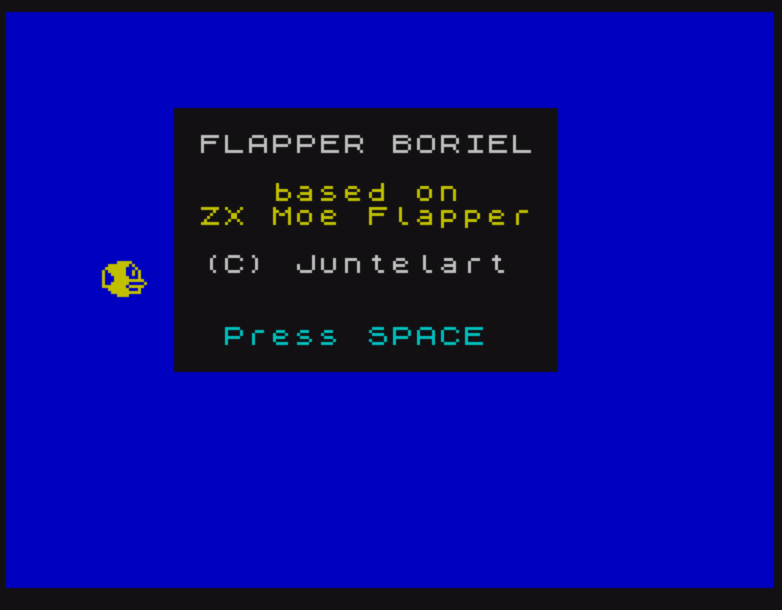
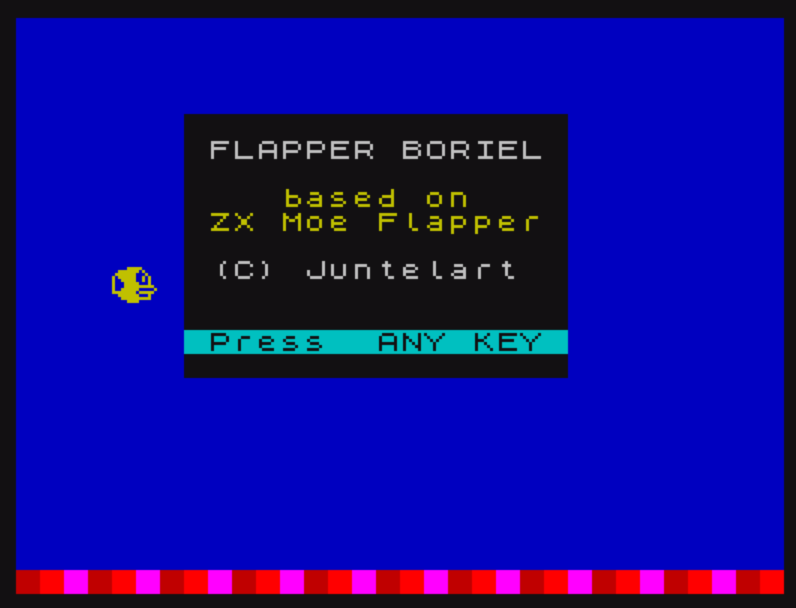
Update key prompts to allow any key for bird flap and game navigation

Changed region(s): [[0.1228, 0.1562, 0.7366, 0.625], [0.0, 0.0, 1.0, 1.0]]

diff --git a/itchio/details.html b/itchio/details.html
@@ -15,7 +15,7 @@
 
     <h3>Cómo jugar</h3>
     <p>
-      Pulsa <strong>Espacio</strong> para que el pájaro aletee y
+      Pulsa <strong>cualquier tecla</strong> para que el pájaro aletee y
       esquiva los obstáculos. ¡Sobrevive el mayor tiempo posible!
     </p>
 
@@ -55,7 +55,7 @@
 
     <h3>How to play</h3>
     <p>
-      Press the <strong>Space</strong> key to make the bird flap and
+      Press <strong>any key</strong> to make the bird flap and
       dodge the incoming obstacles. Survive as long as you can!
     </p>
 
@@ -95,7 +95,7 @@
 
     <h3>Como jogar</h3>
     <p>
-      Prima a tecla <strong>Espaço</strong> para fazer o pássaro bater as asas e
+      Prima <strong>qualquer tecla</strong> para fazer o pássaro bater as asas e
       desviar dos obstáculos. Sobreviva o máximo de tempo possível!
     </p>
 
